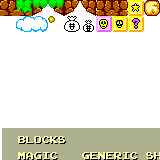
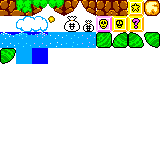
atualizacao personagem

diff --git a/game/src/js/personagem.js b/game/src/js/personagem.js
@@ -3,15 +3,12 @@
 class Personagem {
 
     constructor(x, y, animation) {
-        //strokeWeight(1);
         this.x = x;
         this.y = y;
         this.bloco = 16;
         this.pixel = 1;
         this.animaPassos = 0;
         this.animation = animation;
-        this.w = this.animation[0].width;
-        this.len = this.animation.length;
         this.gravity = 0.105;
         this.vy = 1;
         this.noar = 0;
@@ -30,8 +27,6 @@ class Personagem {
         this.morSoma = 0;
         this.morSomaY = 0;
         this.taAgua = 0;
-        this.margemAgua = 0;
-        this.blocos = [];
         this.menu = 0;
         this.passo = 0;
     }
@@ -70,9 +65,17 @@ class Personagem {
 
     limitarTela() {
         if (this.y >= this.bloco * 5) {
-            if (cenario.scrollPer <= cenario.limiteAlturaMapa - 10) {
+            if (cenario.scrollPer <= cenario.limiteVertical - 16*this.bloco) {
                 cenario.scrollPer = cenario.scrollPer + 2;
                 this.y = this.bloco * 5;
+            }
+            else{
+                if (this.x >= this.bloco * 10) {
+                if(cenario.scrollHorizontal <= this.xMenorR - 2*this.bloco){
+                    cenario.scrollHorizontal = cenario.scrollHorizontal + 2;
+                this.x = this.bloco * 10;
+                }
+            }
             }
         }
     }
@@ -99,7 +102,7 @@ class Personagem {
         this.personagemY = this.y + this.bloco * 0.3;
         this.pesonagemTamanhoX = this.bloco - this.pixel * 4;
         this.pesonagemTamanhoY = this.bloco * 1.4;
-        //rect(this.personagemX, this.personagemY, this.pesonagemTamanhoX, this.pesonagemTamanhoY);
+        rect(this.personagemX, this.personagemY, this.pesonagemTamanhoX, this.pesonagemTamanhoY);
     }
 
     pegarColisaoPiso(cenario, coluna, linha) {
@@ -109,7 +112,7 @@ class Personagem {
             linha * this.bloco - cenario.scrollPer > this.personagemY && (this.loopPegaPiso == 0)) {
             this.yMenorPiso = (linha * this.bloco - cenario.scrollPer) - this.bloco * 1.75;
             this.loopPegaPiso = 1;
-            //rect((coluna * this.bloco), (linha * this.bloco) - cenario.scrollPer, this.bloco, this.bloco);
+            rect((coluna * this.bloco), (linha * this.bloco) - cenario.scrollPer, this.bloco, this.bloco);
         }
     }
 
@@ -119,7 +122,7 @@ class Personagem {
                 (coluna * this.bloco + this.bloco > this.personagemX + this.pesonagemTamanhoX && coluna * this.bloco < this.personagemX + this.pesonagemTamanhoX)) &&
             linha * this.bloco - cenario.scrollPer < this.personagemY) {
             this.yMaiorTopo = (linha * this.bloco - cenario.scrollPer) + this.bloco * 0.7;
-            //rect((coluna * this.bloco), (linha * this.bloco) - cenario.scrollPer, this.bloco, this.bloco);
+            rect((coluna * this.bloco), (linha * this.bloco) - cenario.scrollPer, this.bloco, this.bloco);
         }
     }
 
@@ -239,18 +242,22 @@ class Personagem {
     }
 
     fisicaDoPulo() {
-        
         if ((this.noar) && (this.morreu == 0)) {
+            
             if(keyIsDown(LEFT_ARROW) || keyIsDown(RIGHT_ARROW)){
-                if(this.passo<=2){
+               
+                if(this.ultimoLado!=this.lado){
+                    this.passo = 0;
+                    console.log('passo: '+this.passo)
+                }
+                
+                if(this.passo<=1.5){
                     this.passo+0.01;
-                    console.log(this.passo);
                 } 
             }
             else{
                 if(this.passo>=0){
-                    console.log(this.passo);
-                    this.passo-0.01;
+                    this.passo-0.02;
                 } 
             } 
             if ((this.xMenorL < this.personagemX - this.pixel * 2) && (this.lado == 'left')) {
@@ -280,9 +287,9 @@ class Personagem {
     }
 
     bloqueioTopoBase() {
-        if (this.taAgua) {
-            this.gravity = 0;
-            this.vy = 0;
+         if (this.taAgua) {
+        //     this.gravity = 0;
+        //     this.vy = 0;
         }
         this.y += this.vy;
         if (this.y >= this.yMenorPiso) {
@@ -330,8 +337,8 @@ class Personagem {
         if (this.morreu == 0) {
             this.impulso = 0;
             push();
-            if (this.taAgua) this.img = 14;
-            else if (this.nosoco) this.img = 6;
+            //if (this.taAgua) this.img = 14;
+             if (this.nosoco) this.img = 6;
             else if (this.noar){ this.img = 5;
                 this.passo -= 0.05;
             }
@@ -365,6 +372,7 @@ class Personagem {
     andar(lado) {
         this.impulso = 1;
         this.lado = lado;
+        this.ultimoLado = this.lado;
         this.passo += 0.12;
         if (this.passo >= 2) this.passo = 2;
         if (this.nosoco) this.b = 6;

diff --git a/game/src/js/cenario.js b/game/src/js/cenario.js
@@ -9,12 +9,14 @@ class Cenario {
 		this.linha = 0;
 		this.coluna = 0;
 		this.scrollPer = 1;
+		this.scrollHorizontal = 0;
 		this.bg = [];
 		this.frames = 0;
 		this.soco = 0;
 		this.aguaCor = 0;
 		this.somaCor = 0;
-		this.limiteAlturaMapa = 0;
+		this.limiteVertical = 1690;
+		this.limiteHorizontal = 0;
 		// 10: pedra, 9: caixote, 19: caixa surpresa
 		this.quebraveis = [10, 9, 19];
 		this.mapLevel = [
@@ -126,18 +128,22 @@ class Cenario {
 			[8, 0, 0, 0, 0, 0, 0, 0, 0, 0, 0, 0, 0, 0, 0, 7],
 			[8, 0, 12, 13, 0, 15, 0, 0, 0, 0, 0, 0, 0, 0, 0, 7],
 			[8, 0, 0, 0, 0, 0, 0, 0, 0, 0, 0, 0, 0, 0, 0, 7],
-			[1, 22, 22, 22, 22, 22, 22, 22, 22, 22, 22, 22, 22, 22, 22, 6],
-			[1, 25, 25, 25, 25, 25, 25, 25, 25, 25, 25, 25, 25, 25, 25, 25],
-			[1, 25, 25, 25, 25, 25, 25, 25, 25, 25, 25, 25, 25, 25, 25, 25],
-			[1, 25, 25, 25, 25, 25, 25, 25, 25, 25, 25, 25, 25, 25, 25, 25],
-			[1, 2, 2, 2, 2, 25, 25, 25, 25, 25, 25, 25, 25, 25, 25, 25],
-			[1, 25, 25, 25, 25, 25, 25, 25, 25, 25, 25, 25, 25, 25, 25, 25],
-			[1, 25, 25, 25, 25, 25, 25, 25, 25, 25, 25, 25, 25, 25, 25, 25],
-			[1, 25, 25, 25, 25, 25, 25, 25, 25, 25, 25, 25, 25, 25, 25, 25],
-			[1, 25, 25, 25, 25, 25, 25, 25, 25, 25, 25, 25, 25, 25, 25, 25],
-			[1, 25, 25, 25, 25, 25, 25, 25, 25, 25, 25, 25, 25, 25, 25, 25],
-			[1, 25, 25, 25, 25, 25, 25, 25, 25, 25, 25, 25, 25, 25, 25, 25],
-			[1, 2, 2, 2, 2, 2, 2, 2, 2, 2, 2, 2, 2, 2, 2, 2],
+			[8, 0, 0, 0, 0, 0, 0, 0, 0, 0, 0, 0, 0, 0, 0, 6],
+			[1, 22, 22, 22, 22, 22, 22, 22, 22, 22, 22, 22, 22, 22, 22, 22,22,22,22],
+			[1, 25, 25, 25, 25, 25, 25, 25, 25, 25, 25, 25, 25, 25, 25, 25,25,25,25,1],
+			[1, 25, 25, 25, 25, 25, 25, 25, 25, 25, 25, 25, 25, 25, 25, 25,25,25,25,1],
+			[1, 2, 2, 2, 2, 30, 25, 25, 25, 25, 28, 25, 25, 25, 25, 25,25,25,25,1],
+			[1, 28, 28, 28, 28, 28, 25, 25, 25, 25, 31, 28, 30, 25, 25, 25,25,25,25,1],
+			[1, 10, 25, 25, 28, 28, 25, 25, 25,25, 25, 25, 28, 25, 25, 25,25,25,25,1],
+			[1, 9, 25, 25, 25, 28, 25, 25, 25, 25, 29, 28, 32, 25, 25, 25,25,25,25,1],
+			[1, 28, 25, 25, 25, 28, 25, 25, 25, 25, 25, 25, 25, 25, 25, 25,25,25,25,25,1],
+			[1, 28, 30, 25, 25, 28, 25, 25, 25, 25, 25, 25, 25, 25, 25, 25,25,25,25,25,1],
+			[1, 28, 28, 25, 25, 25, 25, 25, 25, 25, 25, 9, 9, 25, 25, 25,25,25,25,25,1],
+			[1, 2, 2, 2, 2, 2, 2, 2, 2, 2, 2, 2, 2, 2, 2, 2,1],
+			[1, 1, 1, 1, 1, 1, 1, 1, 1, 1, 1, 1, 1, 1, 1, 1,1],
+			[1, 1, 1, 1, 1, 1, 1, 1, 1, 1, 1, 1, 1, 1, 1, 1,1],
+			[1, 1, 1, 1, 1, 1, 1, 1, 1, 1, 1, 1, 1, 1, 1, 1,1,1],
+			[1, 1, 1, 1, 1, 1, 1, 1, 1, 1, 1, 1, 1, 1, 1, 1,1,1,1],
 
 		];
 		this.frames = spritedataP.frames;
@@ -223,7 +229,8 @@ class Cenario {
 			
 
 			this.alteraCorAgua();
-			this.limiteAlturaMapa = this.mapLevel.length * personagem.bloco;
+			this.limiteVertical = this.mapLevel.length * personagem.bloco;
+			
 			for (this.linha = 0; this.linha < this.mapLevel.length; this.linha++) {
 
 				var mapLavelN = this.mapLevel[this.linha];
@@ -236,8 +243,11 @@ class Cenario {
 						if (this.mapLevel[this.linha][this.coluna] == 25) { this.mapLevel[this.linha][this.coluna] = this.somaCor + 3; }
 						if (this.mapLevel[this.linha][this.coluna] == 26) { this.mapLevel[this.linha][this.coluna] = this.somaCor + 3; }
 						if (this.mapLevel[this.linha][this.coluna] == 27) { this.mapLevel[this.linha][this.coluna] = this.somaCor + 3; }
-
-						image(this.bg[mapLavelN[this.coluna] - 1], this.coluna * this.bg[mapLavelN[this.coluna] - 1].width, this.linha * this.bg[mapLavelN[this.coluna] - 1].height - this.scrollPer);
+						
+						if (this.linha>=111) {
+							image(this.bg[32], this.coluna * this.bg[mapLavelN[this.coluna] - 1].width - this.scrollHorizontal, this.linha * this.bg[mapLavelN[this.coluna] - 1].height - this.scrollPer);
+						 }
+						image(this.bg[mapLavelN[this.coluna] - 1], this.coluna * this.bg[mapLavelN[this.coluna] - 1].width - this.scrollHorizontal, this.linha * this.bg[mapLavelN[this.coluna] - 1].height - this.scrollPer);
 					
 						this.verificaSoco(personagem);
 					}

diff --git a/game/src/js/sketch.js b/game/src/js/sketch.js
@@ -8,7 +8,7 @@ let N;
 let total;
 let ladoAnterior;
 let path = [];
-
+let backR = 1, backG = 0, backB = 252;
 // sprites
 let spritesheet,
     spritedata,
@@ -119,7 +119,7 @@ function draw() {
     const ctx = gameCanvas.getContext("2d");
     let textPaused = document.getElementById('pausado')
     ctx.imageSmoothingEnabled = false
-    background(1, 0, 252);
+    background(backR, backG, backB);
 
     // mapa
     if (menu == 1) {
